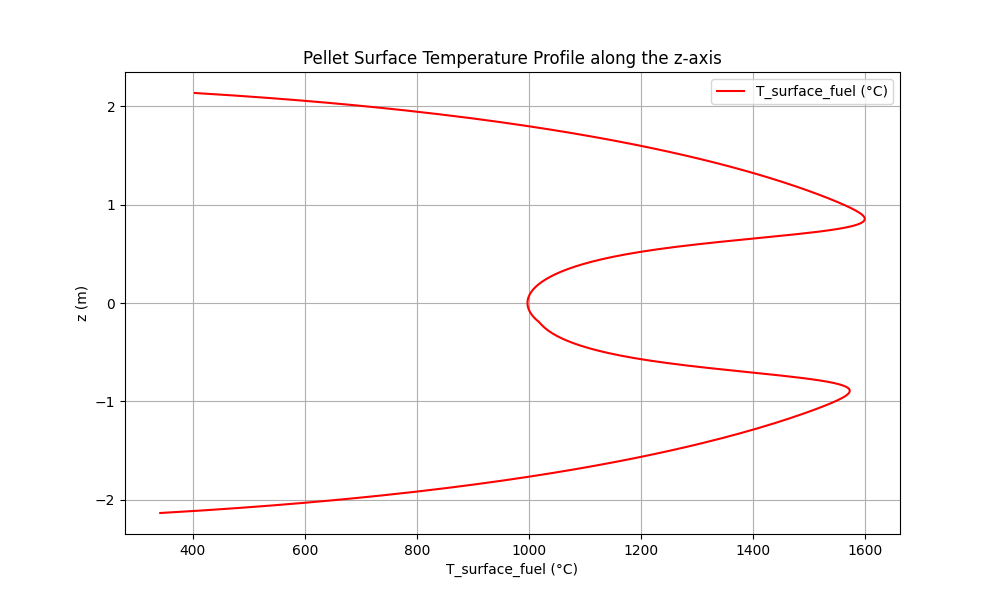
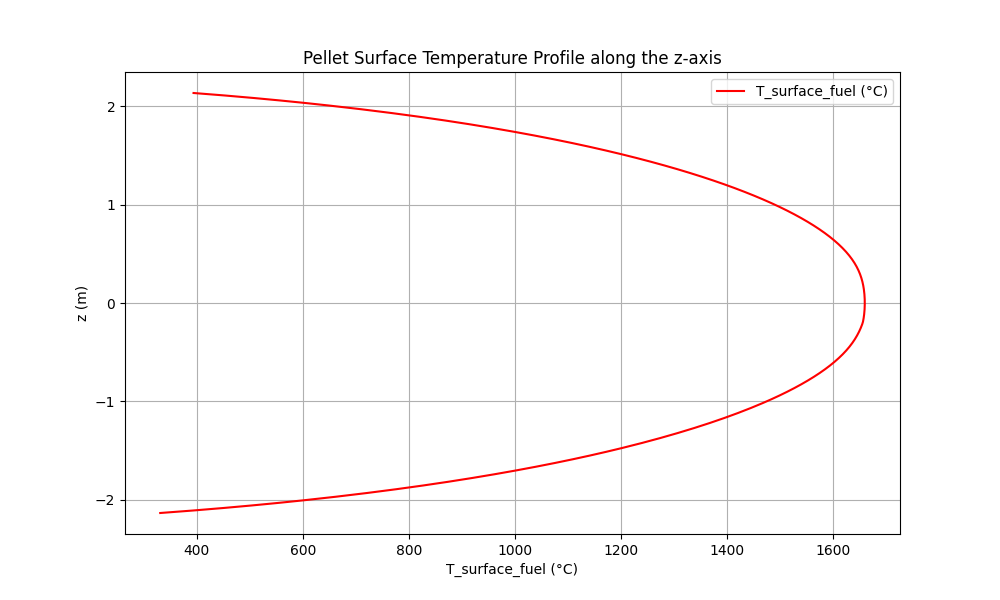
aggiustati alcuni errori ma bisogna rendere le T_medie vettori

diff --git a/assignment2/assignment2.py b/assignment2/assignment2.py
@@ -336,14 +336,14 @@ def thermal_expansion(D_Ta, T_mean, T_amb, component):
                 return 5.62e-6 + 3.162e-9*T # 1/°C 
             else:
                 raise ValueError("Componente sconosciuto")
-        return D_Ta*alpha(T_mean - T_amb)
+        return D_Ta*alpha(T_mean)*(T_mean - T_amb)
 
 def elastic_deformation(r_ci, r_co, T_c, p_i, p_e):
     gamma = r_co/r_ci
     nu = 0.43
     def young_modulus(T):
         return 1.148e11 - 5.99e7 * T  # Pa (modulo di Young in funzione della temperatura)
-    E = young_modulus(T_c)
+    E = young_modulus(T_c + 273.15)  
     delta_r_ci = (r_ci / (E * (gamma**2 - 1))) * (p_i * ((1 - nu) + (1 + nu) * gamma**2) - 2 * gamma**2 * p_e)
     return delta_r_ci
 
@@ -359,15 +359,15 @@ def gap_conductance(delta0, D_pellet, D_in_clad , D_out_clad, T_amb, T_c_avg, p_
         den = 2.54e-5  # m 
         return k_gas / (den + delta)  # W/m^2K
     
+    T_fuel_avg = np.mean(T_fuel_surface)  # stima della temperatura media del pellet
+    delta_f = thermal_expansion(D_pellet, T_fuel_avg, T_amb, 'fuel') # espansione termica diametro del pellet
+    delta_cl =  thermal_expansion(D_in_clad, T_c_avg, T_amb, 'cladding') # espansione termica diametro interno della guaina
+    # p_e è la p_sys, per ora p_i ipotizzata. Dato che p_e è molto più grande di p_i, la deformazione elastica è negativa (contrazione) e quindi riduce il gap, mentre l'espansione termica lo aumenta.
+    delta_def = elastic_deformation(D_in_clad/2, D_out_clad/2, T_c_avg, p_i, p_e) # deformazione elastica raggio della guaina
+    # il fuel si espande e occupa gap, il cladding si espande e aumenta il gap, la deformazione riducie il gap
+    delta = delta0 - delta_f/2 + delta_cl/2 - np.abs(delta_def)
 
-    delta_f = thermal_expansion(D_pellet, T_fuel_surface, T_amb, 'fuel')
-    delta_cl =  thermal_expansion(D_in_clad, T_c_avg, T_amb, 'cladding')
-    # p_e è la p_sys, per ora p_i ipotizzata
-    delta_def = elastic_deformation(D_in_clad/2, D_out_clad/2, T_c_avg, p_i, p_e)
-
-    delta = delta0 - (delta_f + delta_cl + delta_def)
-
-    T_He_avg = T_c_avg + T_fuel_surface / 2  # stima della temperatura media del gas nel gap
+    T_He_avg = (T_c_avg + T_fuel_surface) / 2  + 273.15  # [K] stima della temperatura media del gas nel gap
     return h_gap(k_gas(T_He_avg), delta), delta 
 
 def h_rad(T_f_S, T_ci):
@@ -383,7 +383,7 @@ def h_rad(T_f_S, T_ci):
 
 def calculate_T_pellet_surface_iterative(T_ci_profile, q_vol_profile, A_fuel, D_pellet, D_in_clad, D_out_clad, T_amb, p_sys, delta0):
     # Inizializzo la temperatura del pellet (ipotesi in Celsius)
-    T_f_S = np.max(T_ci_profile)
+    T_f_S = T_ci_profile.copy() + 50.0
     p_i = 3e6  # Pa (Pressione interna ipotizzata)
     
     tol = 1e-3
@@ -501,7 +501,6 @@ if __name__ == "__main__":
     T_ci = T_inner_cladding_profile(T_co, qv_profile, A_fuel, D_in_clad, D_out_clad)
 
     # 8) Pellet surface temperature
-
     T_amb = 25  # °C (temperatura ambiente per il calcolo dell'espansione termica)
     T_f_S, h_tot, delta_out = calculate_T_pellet_surface_iterative(T_ci, qv_profile, A_fuel, D_pellet, D_in_clad, D_out_clad, T_amb, p_sys, s_clad)
     print(delta_out)
